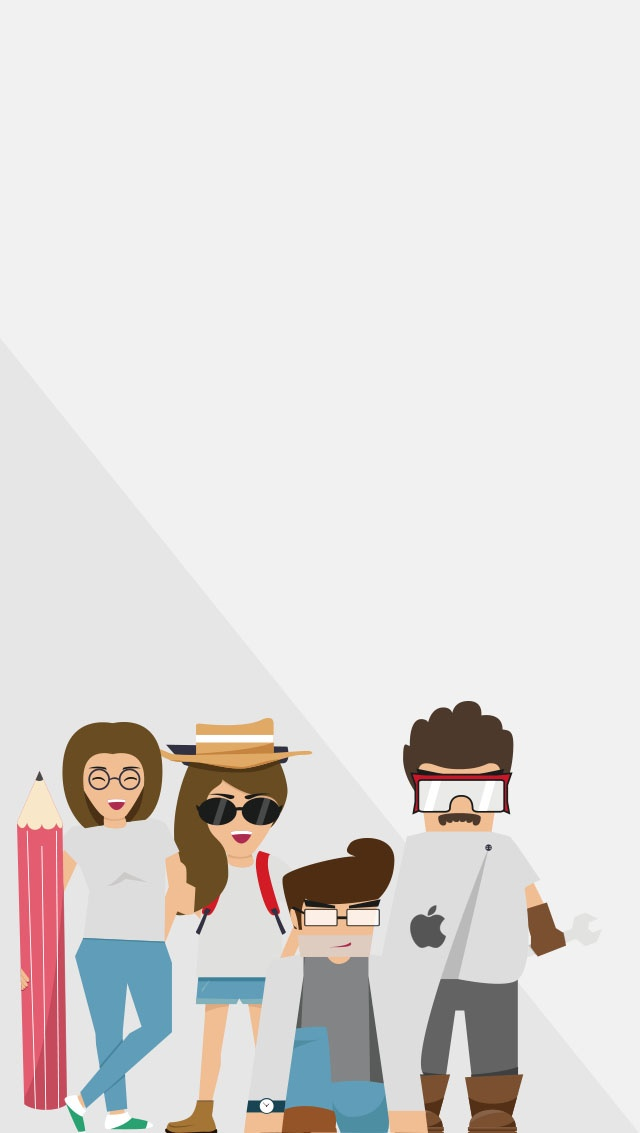
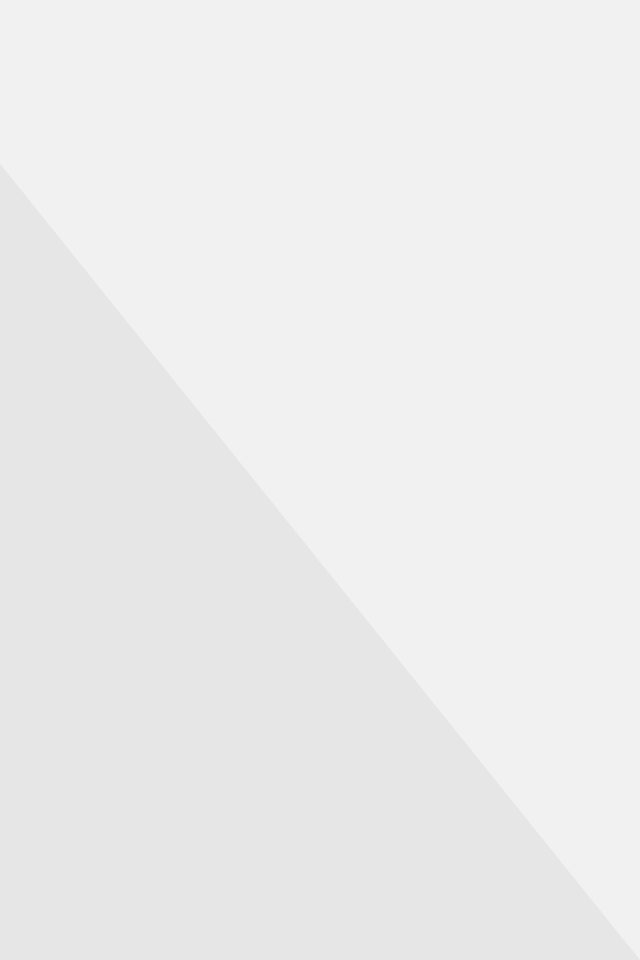
m

Changed region(s): [[0.0, 0.625, 0.8125, 1.0], [0.625, 0.5938, 0.8125, 0.7812], [0.8125, 0.7812, 0.9062, 0.8438]]

diff --git a/css/campus.css b/css/campus.css
@@ -2,7 +2,8 @@
 #page01 {background-color: #e7e6e6;}
 .page_bg {width: 100%;}
 .logo {position: absolute; width: 31.7%;top: 2%;left: 3%;}
-.slogan, .slogan_fun {position: absolute;top: 12%;left: 0;width: 100%;}
+.slogan, .slogan_fun {position: absolute;top: 8%;left: 0;width: 100%;}
+.index_jobs {position: absolute;top: 51%;left: 0;width: 100%;}
 #page02 {background-color: #f1f1f1;}
 .feature_title {position: absolute;width: 30%;top: 0;left: 0;margin: 3% 0 0 3%;}
 .font {position: absolute;color: #fff;font-weight: bold;font-size: 42px;font-family: 'miscrosoft yahei';}

diff --git a/index.html b/index.html
@@ -18,6 +18,7 @@
 					<img class="page_bg" src="img/index-bg.jpg">
 					<img class="slogan" src="img/slogan.png" data-animation="slideToBottom" data-timing-function="ease-in" data-delay="100">
 					<img class="slogan_fun" src="img/slogan-fun.png" data-animation="slideToRight" data-timing-function="ease-in" data-delay="800">
+					<img class="index_jobs" src="img/index-jobs.png">
 				</section>
 				<section class="page" id="page02">
 					<img class="feature_title" src="img/feature-title.png">
